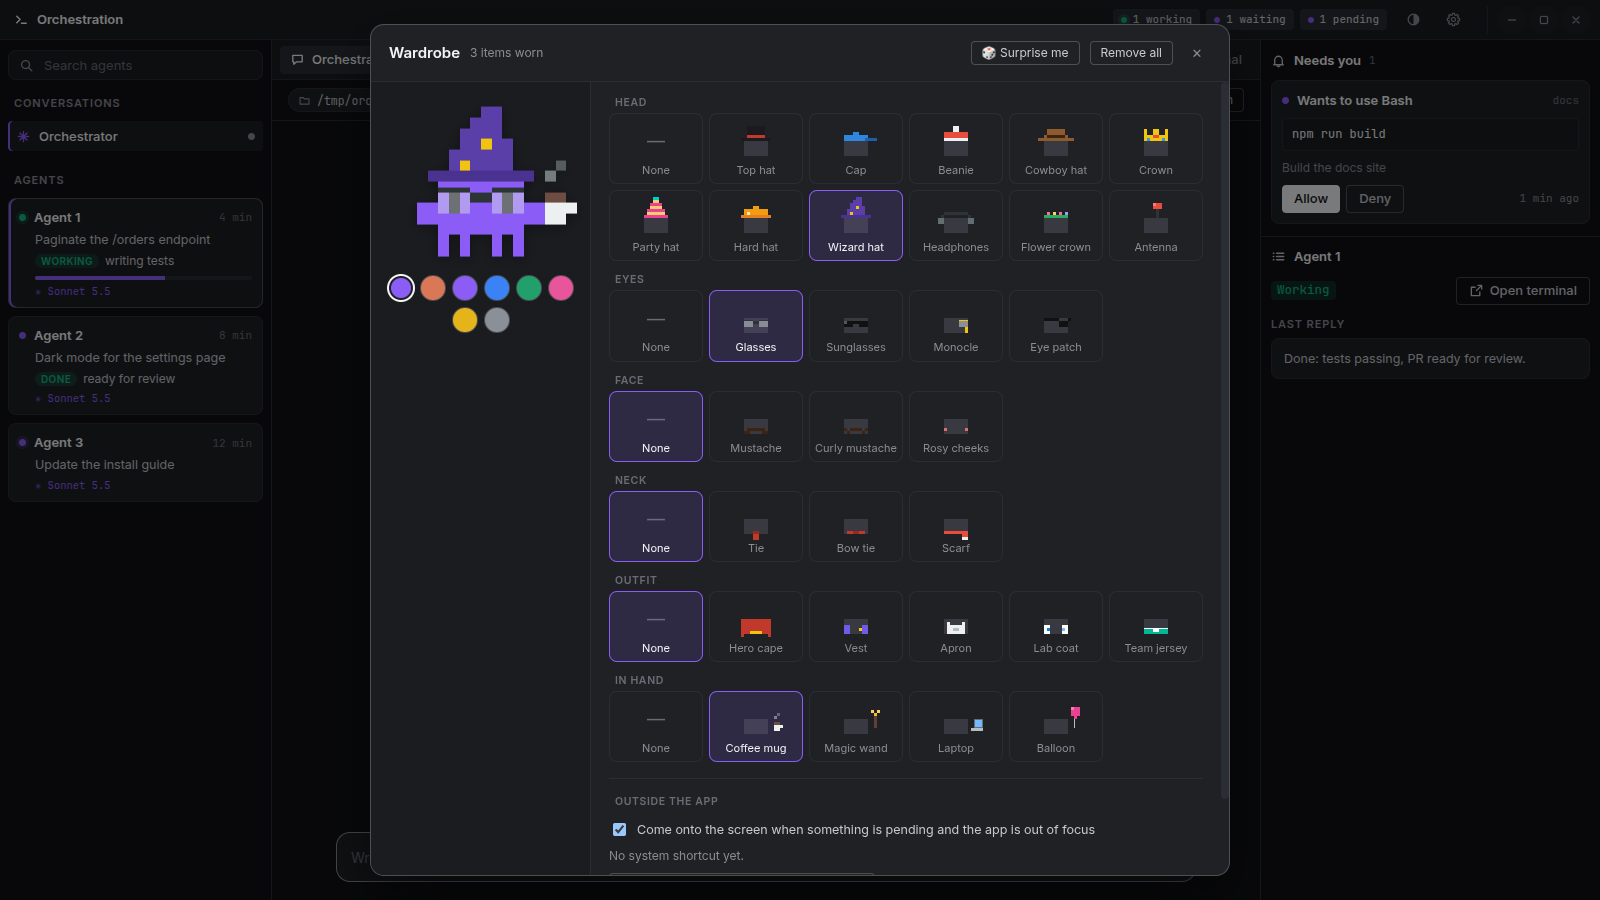
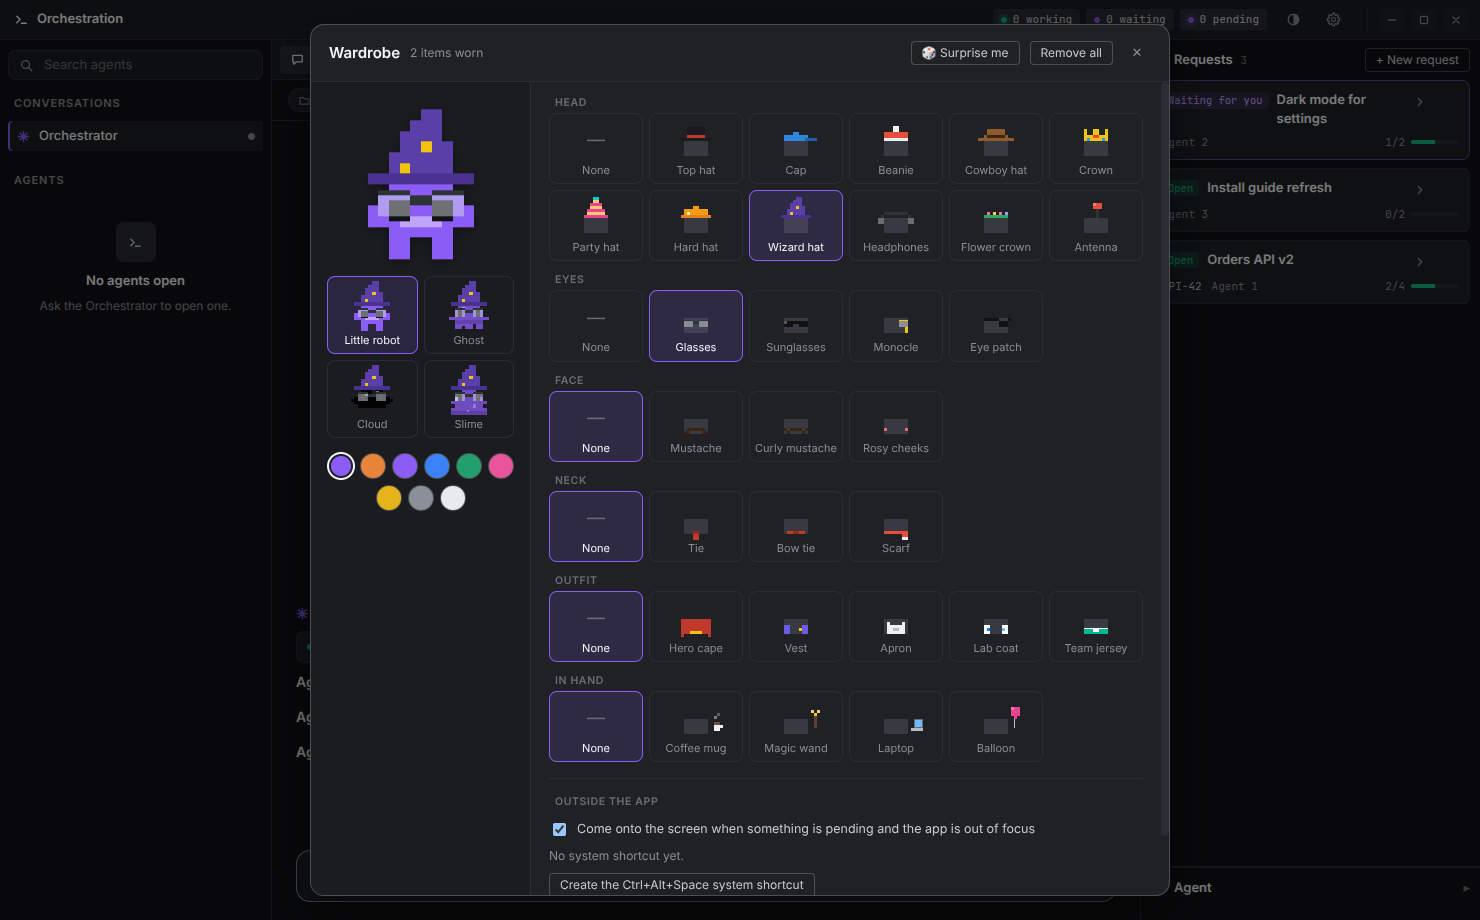
Original pixel helper: the default species is now a little robot (antenna, rounded body, square eyes, two feet) instead of a look-alike of another product's mascot; the orange color option no longer reuses that brand's hex; README screenshots and GIFs regenerated with the new robot; offscreen render

diff --git a/app/renderer/pet-visual.js b/app/renderer/pet-visual.js
@@ -8,7 +8,7 @@
 (() => {
   const CORES = [
     ['padrao', 'Cor do app', null],
-    ['laranja', 'Laranja', '#d97757'],
+    ['laranja', 'Laranja', '#e8833a'],
     ['roxo', 'Roxo', '#8b5cf6'],
     ['azul', 'Azul', '#3b82f6'],
     ['verde', 'Verde', '#22a06b'],
@@ -22,8 +22,10 @@
   // corpo: retângulos da pele; pernas: 4 (animam ao andar); braços: [x, y, l, a].
   // detalhe: [x, y, l, a, classe] — brilho (luz) e sombra, por cima da pele.
   const ESPECIES = {
-    // O clássico: o bonequinho do Claude Code (laranja, olhos de risquinho).
-    bicho: { nome: 'Bichinho', jeito: 'anda', corpo: [[2, 0, 8, 5]], pernas: [[2, 5, 1, 2], [4, 5, 1, 2], [7, 5, 1, 2], [9, 5, 1, 2]], bracoE: [0, 2, 2, 2], bracoD: [10, 2, 2, 2] },
+    // Robozinho (o padrão; o id continua "bicho" para quem já escolheu):
+    // antena, cantos arredondados, olhos quadrados, barriga clara, 2 pés.
+    bicho: { nome: 'Robozinho', jeito: 'anda', corpo: [[3, 0, 6, 1], [2, 1, 8, 3], [3, 4, 6, 1]], pernas: [[3, 5, 2, 2], [7, 5, 2, 2]], bracoE: [1, 2, 1, 2], bracoD: [10, 2, 1, 2],
+      olhos: [[3, 1.5, 2, 2], [7, 1.5, 2, 2]], detalhe: [[5.5, -1.5, 1, 1.5, 'pele'], [5, -2.5, 2, 1, 'pele'], [4, 3, 4, 1, 'brilho']] },
     // Fantasminha: cabeça redonda, rabo em três pontas, meio transparente; voa.
     fantasma: { nome: 'Fantasminha', jeito: 'voa', corpo: [[3, 0, 6, 1], [2, 1, 8, 4]], pernas: [[2, 5, 2, 1.5], [4, 5, 1, 0.6], [5, 5, 2, 1.5], [8, 5, 2, 1.5]], bracoE: [0.5, 3, 1.5, 1], bracoD: [10, 3, 1.5, 1],
       detalhe: [[3, 1, 1, 1, 'brilho'], [4, 0.4, 1, 0.6, 'brilho'], [2, 4, 8, 1, 'sombra']] },
@@ -104,7 +106,7 @@
         ${e.corpo.map((c) => r(c, 'pele')).join('')}
         ${(e.detalhe || []).map(([x, y, w, h, cls]) => r([x, y, w, h], cls)).join('')}
         ${atras ? '' : it('corpo')}
-        <g class="olhos"><rect class="olho" x="3" y="1" width="1" height="2"/><rect class="olho" x="8" y="1" width="1" height="2"/></g>
+        <g class="olhos">${(e.olhos || [[3, 1, 1, 2], [8, 1, 1, 2]]).map(([x, y, w, h]) => `<rect class="olho" x="${x}" y="${y}" width="${w}" height="${h}"/>`).join('')}</g>
         ${it('rosto')}${it('pescoco')}${it('olhos')}${it('cabeca')}
         <g class="braco braco-d">${r(e.bracoD, 'pele')}${it('mao')}</g>
       </g>

diff --git a/app/main.js b/app/main.js
@@ -69,6 +69,9 @@ function criarJanela() {
       // Aba Navegador: as páginas da web rodam em <webview>, presas pelo
       // navegador.js (sem Node, sem preload, só http/https).
       webviewTag: true,
+      // Geração das imagens do README (ORQ_APP_PRINT + ORQ_APP_PRINT_MS):
+      // desenha fora da tela, o que deixa capturar quadro atrás de quadro.
+      offscreen: !!(process.env.ORQ_APP_PRINT && process.env.ORQ_APP_PRINT_MS),
     },
   });
   // Escondida, mas com foco no conteúdo (área de transferência e teclado
@@ -118,14 +121,18 @@ function criarJanela() {
       }
     }, 400);
   });
-  // Teste: ORQ_APP_PRINT=/caminho/base grava um PNG da janela a cada 8 s.
+  // Teste: ORQ_APP_PRINT=/caminho/base grava um PNG da janela a cada 8 s
+  // (ORQ_APP_PRINT_MS muda o intervalo: quadros para os GIFs do README).
   if (process.env.ORQ_APP_PRINT) {
-    let n = 0;
+    let n = 0, ocupado = false;
     setInterval(async () => {
-      if (!janela) return;
-      const img = await janela.webContents.capturePage();
-      require('fs').writeFileSync(`${process.env.ORQ_APP_PRINT}-${++n}.png`, img.toPNG());
-    }, 8000);
+      if (!janela || ocupado) return;
+      ocupado = true;
+      try {
+        const img = await janela.webContents.capturePage();
+        require('fs').writeFileSync(`${process.env.ORQ_APP_PRINT}-${String(++n).padStart(3, '0')}.png`, img.toPNG());
+      } finally { ocupado = false; }
+    }, Number(process.env.ORQ_APP_PRINT_MS) || 8000);
   }
 }
 

diff --git a/app/tests/unit/ajudante.test.js b/app/tests/unit/ajudante.test.js
@@ -41,7 +41,8 @@ test('pet: 4 espécies, todas vestem os 30 itens e as cores', () => {
     for (const [id, i] of Object.entries(V.ITENS)) assert.match(V.svg({ especie, cor: 'branco', itens: { [i.parte]: id } }), new RegExp(`item-${id}`), `${especie} + ${id}`);
     const s = V.svg({ especie });
     assert.match(s, new RegExp(`especie-${especie}`));
-    assert.strictEqual((s.match(/class="perna p\d"/g) || []).length, 4, `${especie}: 4 pernas para a animação de andar`);
+    // Andar alterna p1 (com p3) e p2 (com p4): basta ter p1 e p2 (o Robozinho tem 2 pés).
+    assert.match(s, /class="perna p1"[\s\S]*class="perna p2"/, `${especie}: pernas p1 e p2 para a animação de andar`);
     assert.match(s, /class="braco braco-d"/, `${especie}: mão direita para os itens`);
   }
   assert.strictEqual(V.limpar({ especie: 'dragao' }).especie, 'bicho');

diff --git a/app/tests/e2e/workflows.e2e.js b/app/tests/e2e/workflows.e2e.js
@@ -22,7 +22,7 @@ test('workflows', async (t) => {
     await app.esperar("!document.getElementById('wf-inicio').hidden && document.querySelectorAll('.wf-linha-lista').length === 1");
     assert.ok(await app.avaliar('document.getElementById("wf-editor").hidden'));
     assert.deepStrictEqual(await app.avaliar("[...document.querySelectorAll('[data-wf-aba]')].map((b) => b.textContent)"), ['Workflows', 'Credenciais', 'Execuções']);
-    assert.match(await app.avaliar("document.querySelector('.wf-linha-lista').innerText"), /Passada nas frentes[\s\S]*Desligado/);
+    assert.match(await app.avaliar("document.querySelector('.wf-linha-lista').innerText"), /Passada nos agentes[\s\S]*Desligado/);
     assert.ok(!(await app.avaliar('!!document.querySelector(".wf-inspetor")')), 'sem o painel “Este workflow”');
   });
 

diff --git a/README.md b/README.md
@@ -166,11 +166,11 @@ screen (the input box, attachments, agent cards).
 - **Call it from anywhere** with <kbd>Ctrl</kbd>+<kbd>Alt</kbd>+<kbd>Space</kbd> (`orq-pet`): chat right
   there, or **📷 crop a piece of your screen** and ask about it.
 - **Pick a friend and dress it up.** Four species, each with its own way of moving:
-  - the **classic critter** (Claude Code style) walks;
+  - the **little robot** (the default) walks;
   - the translucent **ghost** really flies around — inside the app and across your desktop;
   - the **cloud** flies too, and changes from white to gray with its mood (it rains when something goes wrong);
   - the see-through **slime** gets around by hopping, and jumps higher than anyone.
-  - out on the desktop each one arrives and leaves its own way: the critter walks in from the edge, the ghost and
+  - out on the desktop each one arrives and leaves its own way: the robot walks in from the edge, the ghost and
     the cloud swoop in on a wavy flight and twirl before hovering (and fly off upward), the slime bounces in and out.
 
   They all wear the same 30 items across 6 slots (hats, glasses, moustaches, ties, capes, a coffee mug…) in
